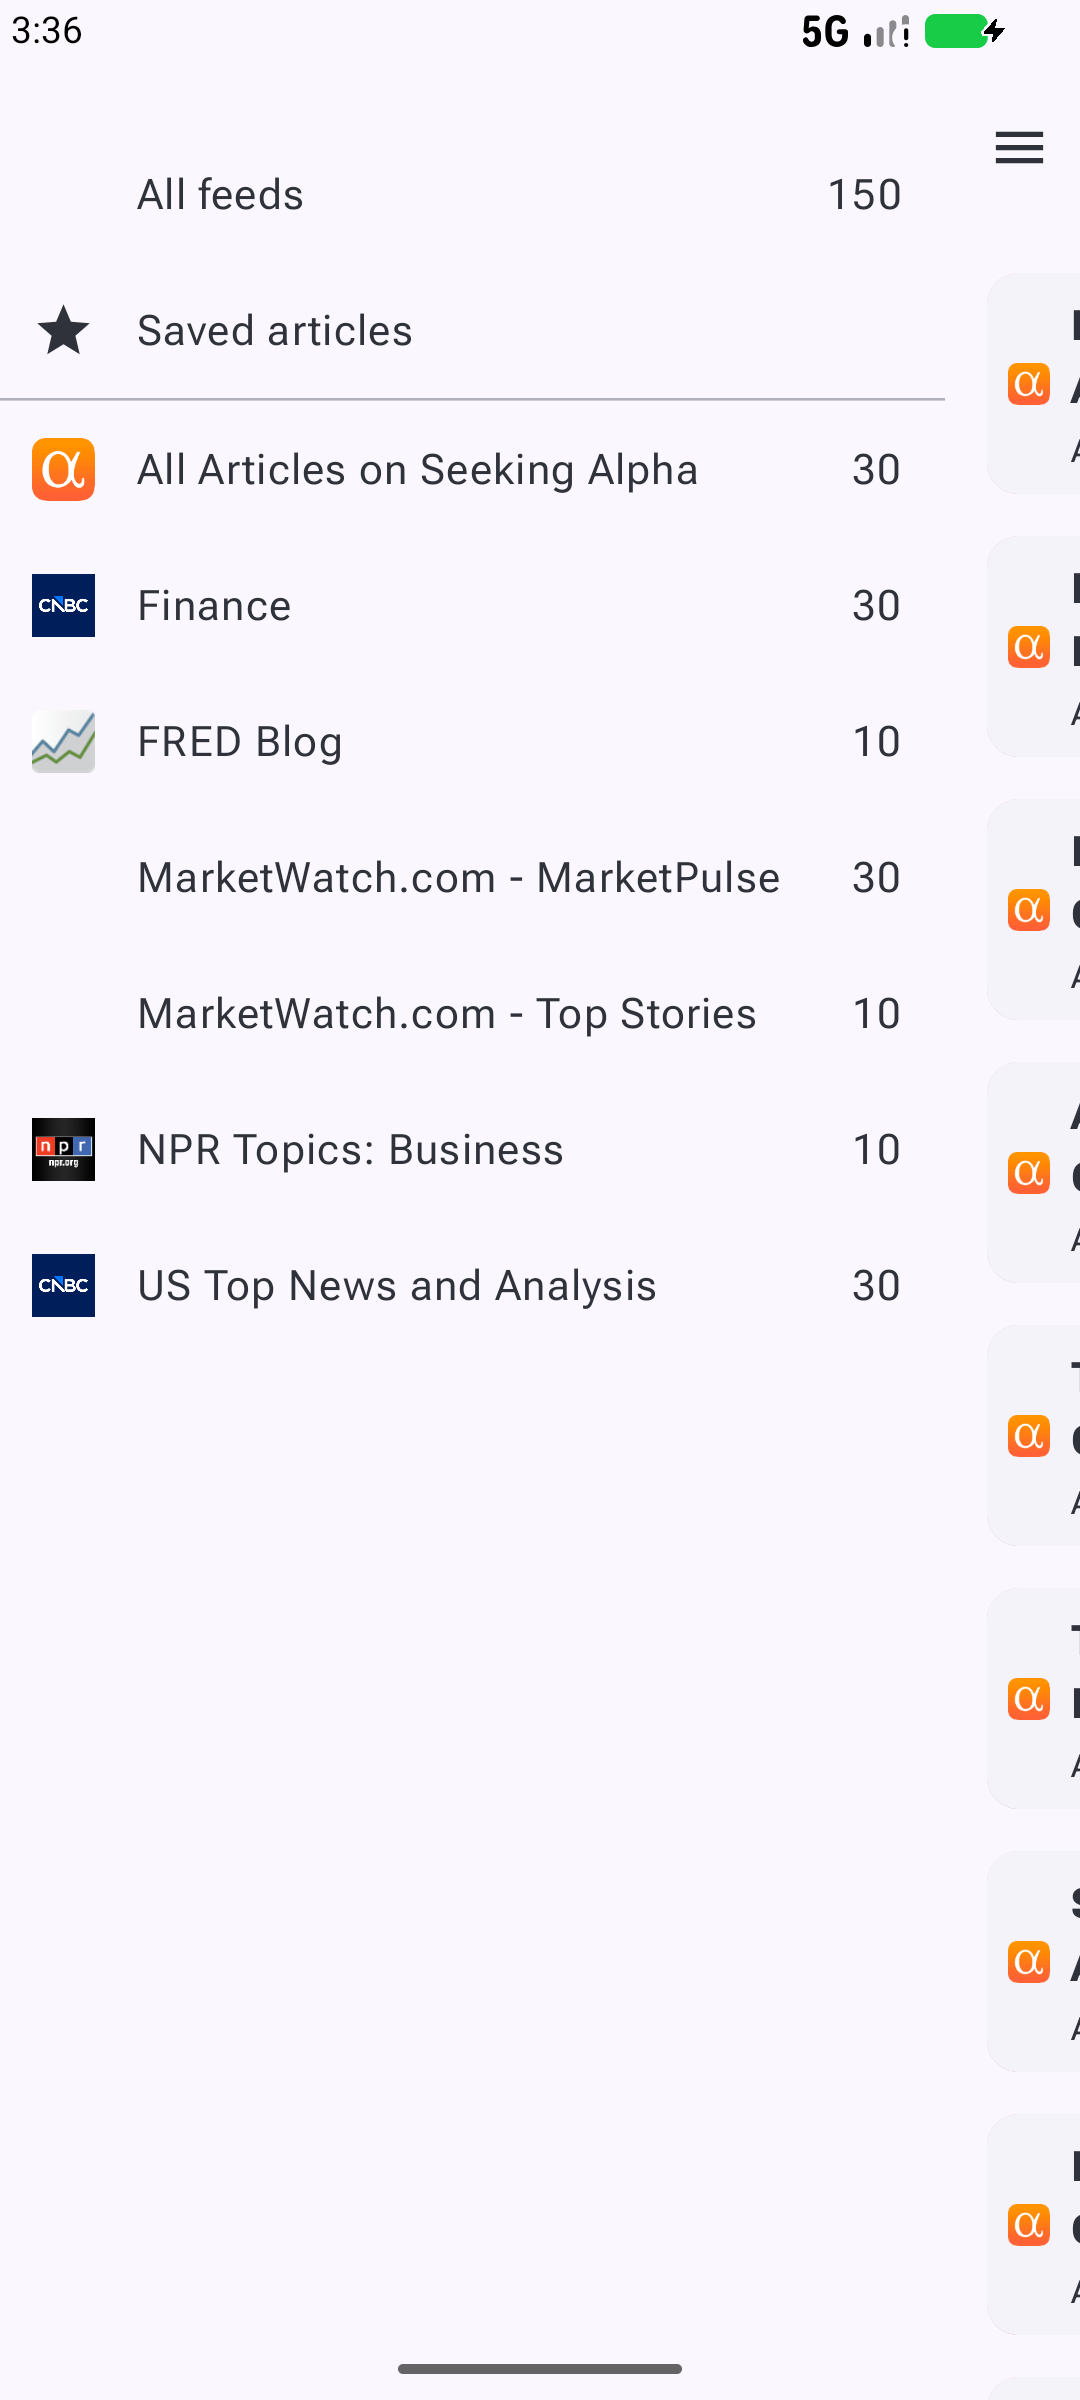
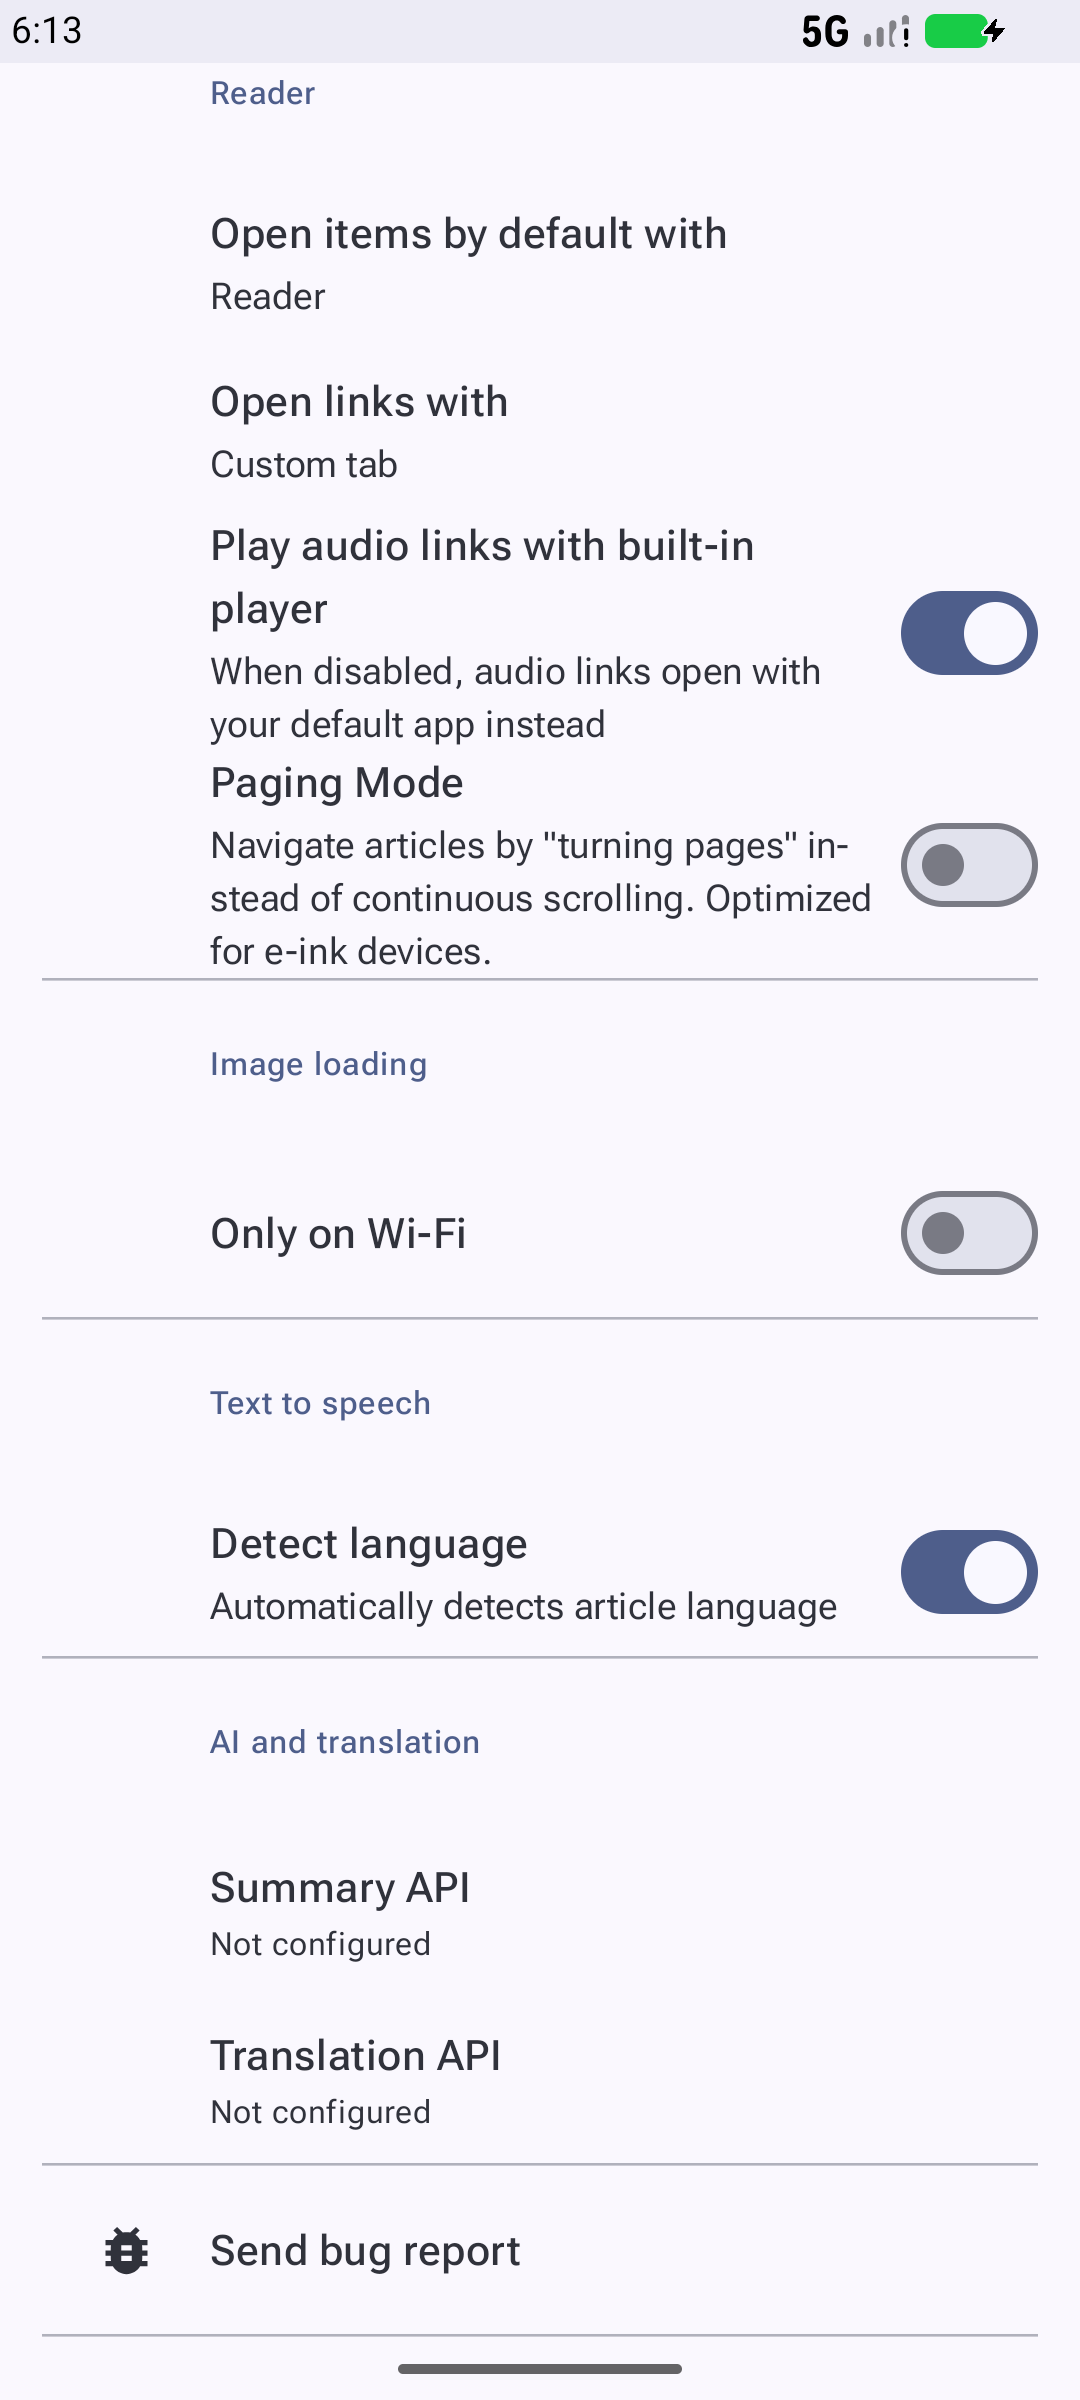
docs: polished bilingual README and refreshed drawer screenshot

diff --git a/README.EN.md b/README.EN.md
@@ -2,35 +2,50 @@
 
 [中文](README.md) | **English**
 
-> An Android app for reading U.S. stock-market &amp; economics news with AI translation, built as a fork of [Feeder](https://github.com/spacecowboy/Feeder) (GPL-3.0) for the Chinese market.
-> **No Google services required** — plain APK sideload, made for Huawei HarmonyOS (Android 12 compatibility layer) and other GMS-free devices.
+A U.S. stock-market news reader with one-tap AI translation — subscribe to a handful of solid finance feeds, and turn English headlines into clean Chinese (or any language) without mangling the numbers, tickers, or terminology.
+
+It's built on top of the open-source reader [Feeder](https://github.com/spacecowboy/Feeder) (GPL-3.0). Feeder is already a clean, local RSS reader; we kept all of that and layered two things on top: finance content and translation.
 
 ---
 
-## What it is
+## What's supported
 
-Finance Reader is a fully local RSS reader that ships pre-subscribed to 7 U.S. financial news feeds and adds full-article translation powered by **your own AI API**. Turn English financial news into Chinese (or any language) in one tap — precise, consistent terminology, with numbers and ticker symbols preserved.
+**Feed formats**
 
-## ✨ What we added / improved over Feeder
+- RSS, Atom, and JSON Feed — paste any URL.
+- OPML import / export (export doubles as a backup).
+- Offline reading, unread counts, bookmarks, home-screen widgets, full-text fetching — everything Feeder already had is still there.
 
-| Feature | Description |
+**System requirements**
+
+- Android 10 (API 29) or newer, arm64 devices.
+- No Google services, no account, everything runs locally.
+
+---
+
+## What we actually built
+
+1. **Finance content out of the box**: on first launch it auto-subscribes 7 U.S. finance feeds (CNBC, MarketWatch, Seeking Alpha, NPR, FRED), so there's news to read immediately.
+
+2. **AI translation with your own key**: plug in an API key, base URL and model name in Settings — DeepSeek, Kimi, Zhipu, Qwen, anything OpenAI-compatible — hit "Test connection", and you can translate full articles.
+
+3. **Translation tuned for financial news**: the built-in prompt keeps numbers, percentages, dates, currencies, tickers and company names as-is, uses industry-standard terminology ("basis points" → "基点"), and never adds or invents anything.
+
+4. **Offline source-language detection**: fully local (no Google services); recognizes English, Japanese, Korean, simplified/traditional Chinese and more, with a manual override. The target language follows your phone's system language by default.
+
+5. **One-tap full-text translation**: a "Translate" button right at the top of the article translates the whole thing in one tap — no "expand first, then translate" dance. Translated articles reopen already-translated, with no repeat API cost.
+
+6. **Long articles don't break**: oversized articles are chunked and translated piece by piece, with automatic retry on failure; translation keeps running in the background if you leave the page.
+
+7. **Security done properly**: the API key is encrypted with the system keystore, only HTTPS is used, and the key never leaks into logs or exports.
+
+---
+
+## Screenshots
+
+| Feed list | Subscriptions |
 |---|---|
-| 🗞 Preloaded finance feeds | Auto-subscribes CNBC, MarketWatch, Seeking Alpha, NPR, FRED and more on first launch |
-| 🤖 BYOK AI translation | Fill API Key + Base URL + model; supports DeepSeek / Kimi / Zhipu / Qwen and any OpenAI-compatible endpoint; built-in "Test connection" |
-| 🎯 Finance-grade prompt | Built-in system prompt: industry-standard terminology, numbers/percentages/currencies/tickers/company names kept as-is, no additions or fabrications |
-| 🔤 Offline language detection | Unicode script + system `TextClassifier` + Lingua (no GMS); manual source-language override |
-| 🌐 Target follows system language | Target language defaults to the system language, overridable |
-| ⚡ One-tap full-text translation | A "Translate" button at the top of the article translates the **full text** in one tap |
-| 🔁 Background + cache | Translation keeps running in the background; translated articles reopen already-translated with no extra API cost |
-| 📰 Auto-translate list titles | Optional toggle translates every title in the list |
-| 🧩 Chunking + retry | Long articles are chunked at block boundaries; 429/5xx retry with backoff; serialized requests to control cost |
-| 🔐 Key security | API key encrypted with Android Keystore; HTTPS enforced; OPML export excludes keys |
-
-## 📸 Screenshots
-
-| Feed list | Drawer |
-|---|---|
-| ![Feed list](screenshots/1-feed-list.png) | ![Drawer](screenshots/2-drawer-feeds.png) |
+| ![Feed list](screenshots/1-feed-list.png) | ![Subscriptions](screenshots/2-drawer-feeds.png) |
 
 | Article | Translation settings |
 |---|---|
@@ -38,41 +53,31 @@ Finance Reader is a fully local RSS reader that ships pre-subscribed to 7 U.S. f
 
 | Settings (source language / prompt / test) | Top translate button |
 |---|---|
-| ![Settings 2](screenshots/5-translation-settings-2.png) | ![Translate button](screenshots/6-translate-button.png) |
+| ![Settings](screenshots/5-translation-settings-2.png) | ![Translate button](screenshots/6-translate-button.png) |
 
-## 🔧 How it works
+---
 
-```
-RSS fetch → text extraction → offline language detection → system prompt + source → OpenAI-compatible API → translation → local cache → display
-```
+## Install
 
-- **Language detection**: Unicode script prefilter (kana→ja, hangul→ko, Han→zh) → system `TextClassifier` (API 29+, AOSP) → `pemistahl/lingua` fallback → simplified/traditional heuristics.
-- **Translation**: user-provided `{baseURL}/chat/completions`, Bearer auth; non-streaming; long articles chunked at HTML block boundaries and joined.
-- **Security**: API key stored with Android Keystore AES-256-GCM; non-local plaintext `http://` endpoints rejected; no key in logs.
+1. Download `app-fdroid-release.apk` (arm64) from [Releases](../../releases).
+2. Allow "install from unknown sources" and install it.
+3. The app auto-subscribes finance feeds on first launch; set up your API under Settings → AI and translation → Translation API, tap "Test connection", and translate away.
 
-## 📦 Install
+See [`USER_GUIDE.md`](USER_GUIDE.md) for a detailed guide (Chinese).
 
-1. Download `app-fdroid-release.apk` (arm64-v8a).
-2. On Huawei HarmonyOS: disable "Pure Mode" → allow "unknown sources" → tap install, choose "install anyway" on the risk prompt.
-3. The app auto-subscribes finance feeds on first launch; configure your API in Settings → AI and translation → Translation API, tap "Test connection", then translate.
-
-> ⚠ Do not upgrade the phone to HarmonyOS NEXT (5.x) — it no longer runs Android APKs.
-
-See `USER_GUIDE.md` for a detailed user guide (Chinese).
-
-## 🛠 Build from source
+## Build from source
 
 ```bash
 # Requires JDK 17+ and Android SDK 36
 ./gradlew assembleFdroidRelease
 ```
 
-See `BUILD_GUIDE.md` for build, signing and versioning rules.
+See [`BUILD_GUIDE.md`](BUILD_GUIDE.md) for build, signing and versioning rules.
 
-## 📄 License
+## License
 
 Forked from [Feeder](https://github.com/spacecowboy/Feeder), licensed under **GPL-3.0** (see `LICENSE`).
 
-## 🙏 Credits
+## Credits
 
-Thanks to the Feeder authors and community; language detection by [Lingua](https://github.com/pemistahl/lingua) (MIT); AI calls via [openai-kotlin](https://github.com/aallam/openai-kotlin) (MIT).
+Thanks to the Feeder authors and community; language detection by [Lingua](https://github.com/pemistahl/lingua) (MIT), AI calls via [openai-kotlin](https://github.com/aallam/openai-kotlin) (MIT).

diff --git a/README.md b/README.md
@@ -2,33 +2,48 @@
 
 **中文** | [English](README.EN.md)
 
-> 一个面向中国市场的「美股财经 RSS 阅读 + AI 翻译」安卓应用，基于开源项目 [Feeder](https://github.com/spacecowboy/Feeder)（GPL-3.0）二次开发。
-> **无需谷歌服务**，标准 APK 直装，适配华为鸿蒙（Android 12 兼容层）等无 GMS 设备。
+给爸妈（也给自己）用的美股财经新闻阅读器：把几个靠谱的财经源订进来，英文新闻一键翻成中文，翻译得还像那么回事——数字、股票代码、术语都不会翻错。
+
+这个项目是在开源阅读器 [Feeder](https://github.com/spacecowboy/Feeder)（GPL-3.0）基础上改的。Feeder 本来就是个很干净的本地 RSS 阅读器，我们没动它那些已经做好的部分，只在上面补了「财经内容」和「翻译」这两件事。
 
 ---
 
-## 这是做什么的
+## 支持什么
 
-财经速读是一个完全本地运行的 RSS 阅读器，开箱即订阅了 7 个美国财经新闻源，并内置了基于你**自备 AI API** 的整篇文章翻译能力——把英文财经新闻一键译成中文（或任意语言），翻译精准、术语统一、数字与股票代码原样保留。
+**订阅源格式**
 
-## ✨ 相比上游 Feeder，我们新增 / 改进了什么
+- RSS、Atom、JSON Feed，随手粘贴一个网址就能加。
+- OPML 导入 / 导出（导出就是一份备份）。
+- 离线阅读、未读计数、收藏、桌面小组件、全文抓取……Feeder 原有的能力都还在。
 
-| 功能 | 说明 |
-|---|---|
-| 🗞 预置美股财经源 | 首启自动订阅 CNBC、MarketWatch、Seeking Alpha、NPR、FRED 等 7 个源 |
-| 🤖 自配 AI 翻译 | 填 API Key + Base URL + 模型名即可；支持 DeepSeek / Kimi / 智谱 / 通义等所有 OpenAI 兼容端点；内置「测试连接」 |
-| 🎯 财经精译提示词 | 内置系统提示词：术语用行业标准译法、数字/百分比/货币/股票代码/公司名原样保留、不增删不发挥 |
-| 🔤 离线语言识别 | Unicode 脚本 + 系统 TextClassifier + Lingua 三级识别，**无 GMS**；可手动指定源语言 |
-| 🌐 目标语言跟随系统 | 目标语言默认跟随系统语言，也可手动选择 |
-| ⚡ 一键翻全文 | 正文顶部「翻译」按钮，点一下直接翻译**全文**（无需先展开再翻译） |
-| 🔁 后台翻译 + 缓存 | 翻译在后台继续；翻过的文章下次打开直接显示译文，不重复计费 |
-| 📰 列表标题自动翻译 | 设置里开启后，列表里所有标题自动翻译 |
-| 🧩 长文分块 + 重试 | 长文按块级边界分块翻译，429/5xx 自动退避重试，全局串行控费 |
-| 🔐 密钥安全 | API Key 用 Android Keystore 加密存储；强制 HTTPS；OPML 导出不含密钥 |
+**系统要求**
 
-## 📸 截图
+- Android 10（API 29）及以上，arm64 设备。
+- 不依赖谷歌服务，不用注册账号，所有数据都在本地。
 
-| 文章列表 | 订阅源抽屉 |
+---
+
+## 我们具体做了什么
+
+1. **开箱就有财经内容**：第一次打开自动订好 7 个美国财经源（CNBC、MarketWatch、Seeking Alpha、NPR、FRED），联网就能刷出新闻，不用自己一个一个加。
+
+2. **自带 AI 翻译，用的是你自己的 key**：设置里填 API Key、接口地址、模型名——DeepSeek、Kimi、智谱、通义，只要是 OpenAI 兼容接口都能用——点一下「测试连接」确认没问题，就能翻译整篇文章。
+
+3. **翻译是奔着财经新闻去的**：内置提示词专门调过——数字、百分比、日期、货币、股票代码、公司名一律原样保留；术语用行业标准译法（「basis points」就是「基点」）；不添油加醋、不凭空编造。
+
+4. **自动认原文语言**：完全离线的语言识别（不靠谷歌），英文、日文、韩文、简繁中文都能认；拿不准就手动指定源语言。目标语言默认跟手机系统走。
+
+5. **一键翻全文**：文章顶部一个「翻译」按钮，点一下直接出全文中文，不用先去「展开全文」再翻译。翻过的文章，下次打开直接就是译文，也不会重复花 API 的钱。
+
+6. **长文不翻车**：特别长的文章自动分块翻译，失败了自动重试；翻译在后台继续，切走页面也不影响。
+
+7. **安全上没含糊**：API Key 用系统级加密存本地，只走 HTTPS，日志和导出文件里都不会带出密钥。
+
+---
+
+## 截图
+
+| 文章列表 | 订阅源 |
 |---|---|
 | ![文章列表](screenshots/1-feed-list.png) | ![订阅源](screenshots/2-drawer-feeds.png) |
 
@@ -38,41 +53,31 @@
 
 | 设置（源语言 / 提示词 / 测试连接） | 顶部一键翻译按钮 |
 |---|---|
-| ![设置2](screenshots/5-translation-settings-2.png) | ![翻译按钮](screenshots/6-translate-button.png) |
+| ![设置](screenshots/5-translation-settings-2.png) | ![翻译按钮](screenshots/6-translate-button.png) |
 
-## 🔧 工作原理
+---
 
-```
-RSS 拉取 → 正文提取 → 语言识别(离线) → 系统提示词 + 原文 → OpenAI 兼容 API → 译文 → 本地缓存 → 展示
-```
+## 安装
 
-- **语言识别**：Unicode 文字脚本粗筛（假名→日文、谚文→韩文、纯汉字→中文）→ 系统 `TextClassifier`（API 29+，AOSP 原生）→ `pemistahl/lingua` 兜底 → 简繁字表。
-- **翻译**：用户自填 `{baseURL}/chat/completions`，Bearer 认证；v1 非流式；长文按 HTML 块级标签分块串行翻译后合并。
-- **安全**：API Key 以 Android Keystore AES-256-GCM 加密落盘；非本地明文 http 端点直接拒绝；日志不回显密钥。
+1. 到 [Releases](../../releases) 下载 `app-fdroid-release.apk`（arm64）。
+2. 手机上允许「未知来源」安装，装完打开即自动订阅财经源。
+3. 去 设置 → AI and translation → Translation API 填好你的 API，点「测试连接」成功后就能翻译。
 
-## 📦 安装
+更详细的图文说明见 [`USER_GUIDE.md`](USER_GUIDE.md)。
 
-1. 下载 `app-fdroid-release.apk`（arm64-v8a）。
-2. 华为鸿蒙：关闭「纯净模式」→ 允许「未知来源」→ 点击安装，遇到风险提示选「仍要安装」。
-3. 打开应用即自动订阅财经源；在 设置 → AI and translation → Translation API 里填入你的 API 配置，点「Test connection」成功后即可翻译。
-
-> ⚠ 请勿将手机升级到鸿蒙 NEXT（5.x）——它不再支持安卓 APK。
-
-详细安装与使用说明见仓库根目录的 `USER_GUIDE.md`。
-
-## 🛠 从源码构建
+## 从源码构建
 
 ```bash
-# 需要 JDK 17+ 与 Android SDK 36
+# 需要 JDK 17+ 和 Android SDK 36
 ./gradlew assembleFdroidRelease
 ```
 
-构建、签名、版本号规则详见 `BUILD_GUIDE.md`。
+构建、签名和版本号规则见 [`BUILD_GUIDE.md`](BUILD_GUIDE.md)。
 
-## 📄 许可
+## 许可
 
-本项目基于 [Feeder](https://github.com/spacecowboy/Feeder) 二次开发，遵循 **GPL-3.0**（见 `LICENSE`）。
+基于 [Feeder](https://github.com/spacecowboy/Feeder) 二次开发，遵循 **GPL-3.0**（见 `LICENSE`）。
 
-## 🙏 致谢
+## 致谢
 
-感谢 Feeder 原作者与社区；语言识别使用 [Lingua](https://github.com/pemistahl/lingua)（MIT）；AI 调用使用 [openai-kotlin](https://github.com/aallam/openai-kotlin)（MIT）。
+感谢 Feeder 的作者和社区；语言识别用 [Lingua](https://github.com/pemistahl/lingua)（MIT），AI 调用用 [openai-kotlin](https://github.com/aallam/openai-kotlin)（MIT）。
